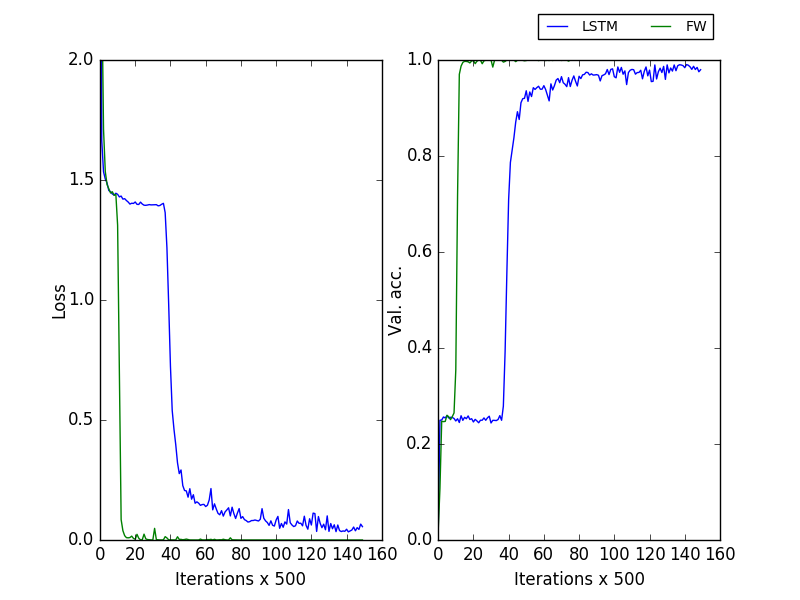
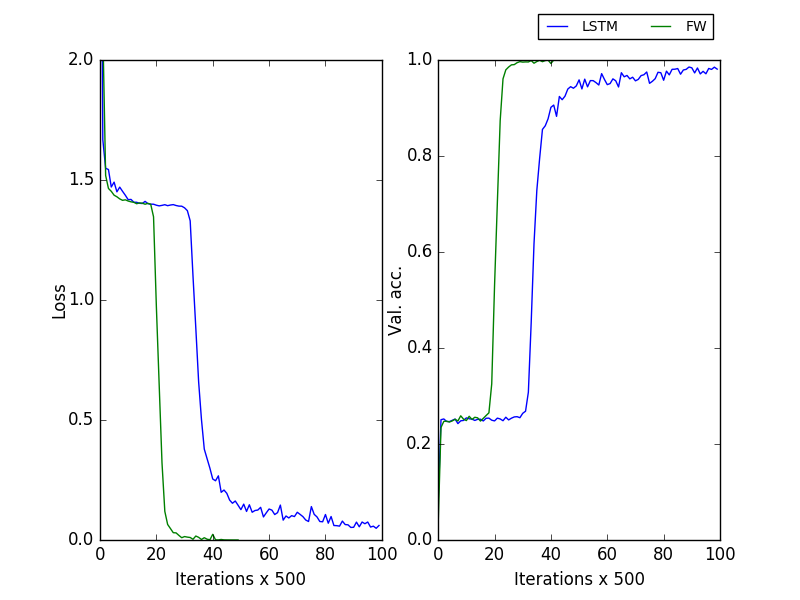
Faster FW version

diff --git a/repro_fw/rnn_mem.py b/repro_fw/rnn_mem.py
@@ -13,7 +13,7 @@ class LSTM():
         self.hid_size = 64
         self.lr = 1e-3
         self.bz = 64
-        self.niter = 75000
+        self.niter = 50000
         self.build_graph()
 
     def build_graph(self):
@@ -35,20 +35,23 @@ class FastWeights():
         self.x = tf.placeholder(tf.float32,shape=(None,seq_len,dim),name='input_ph')
         self.y = tf.placeholder(tf.int32,shape=(None,dim),name='label_ph')
         self.hid_size = 64
-        self.memmat = tf.eye(self.hid_size) * 0.05
+        self.memmat = tf.zeros([self.hid_size,self.hid_size],dtype=tf.float32)
         self.hid = tf.zeros(shape=(tf.shape(self.x)[0],self.hid_size),dtype=tf.float32)
         self.inner_loop = 1
         self.lr = 1e-3
         self.fast_lr = 0.5
         self.decay = 0.9
         self.bz = 64
-        self.niter = 75000
+        self.niter = 25000
         self.build_graph()
                 
     def build_graph(self):
+        W = 0.05 * tf.Variable(tf.eye(self.hid_size),trainable=True)
+        C = tf.Variable(tfu.xinit(shape=[self.dim,self.hid_size]),trainable=True)
+        
         for t in range(self.seq_len):
             x_t = self.x[:,t,:]
-            z = tfu.dense(self.hid,self.hid_size,act=None) + tfu.dense(x_t,self.hid_size,act=None)
+            z = tf.matmul(self.hid,W) + tf.matmul(x_t,C)
             h_0 = tfu.relu(z)
 
             # insert in memory
@@ -65,8 +68,8 @@ class FastWeights():
             # update hidden state
             self.hid = h_s
         
-        out = tfu.dense(self.hid,100,act=tfu.relu)
-        logits = tfu.dense(out,self.dim)
+        final_state = tfu.dense(self.hid,100,act=tfu.relu)
+        logits = tfu.dense(final_state,self.dim)
         self.pred =  tfu.softmax(logits)
         self.loss = tf.losses.softmax_cross_entropy(onehot_labels=self.y,logits=logits)
         opt = tf.train.AdamOptimizer(learning_rate=self.lr)

diff --git a/repro_fw/tfutils.py b/repro_fw/tfutils.py
@@ -9,10 +9,10 @@ xinit = tf.contrib.layers.xavier_initializer()
 binit = tf.constant_initializer(0.0)
 
 def dense(inp,size,act=None):
-    out = tf.layers.dense(inp,size,kernel_initializer=xinit,bias_initializer=binit)
+    outp = tf.layers.dense(inp,size,kernel_initializer=xinit,bias_initializer=binit)
     if act is not None:
-        return act(out)
-    return out
+        return act(outp)
+    return outp
 
 def layer_norm(inp):
     return tf.contrib.layers.layer_norm(inp,center=True,scale=True)

diff --git a/repro_fw/retrieval.py b/repro_fw/retrieval.py
@@ -103,3 +103,4 @@ if __name__ == '__main__':
             os.system('mkdir '+output_dir)
         plt.savefig(os.path.join(output_dir,'seqlen-'+str(seq_len)+'.png'))
 
+
